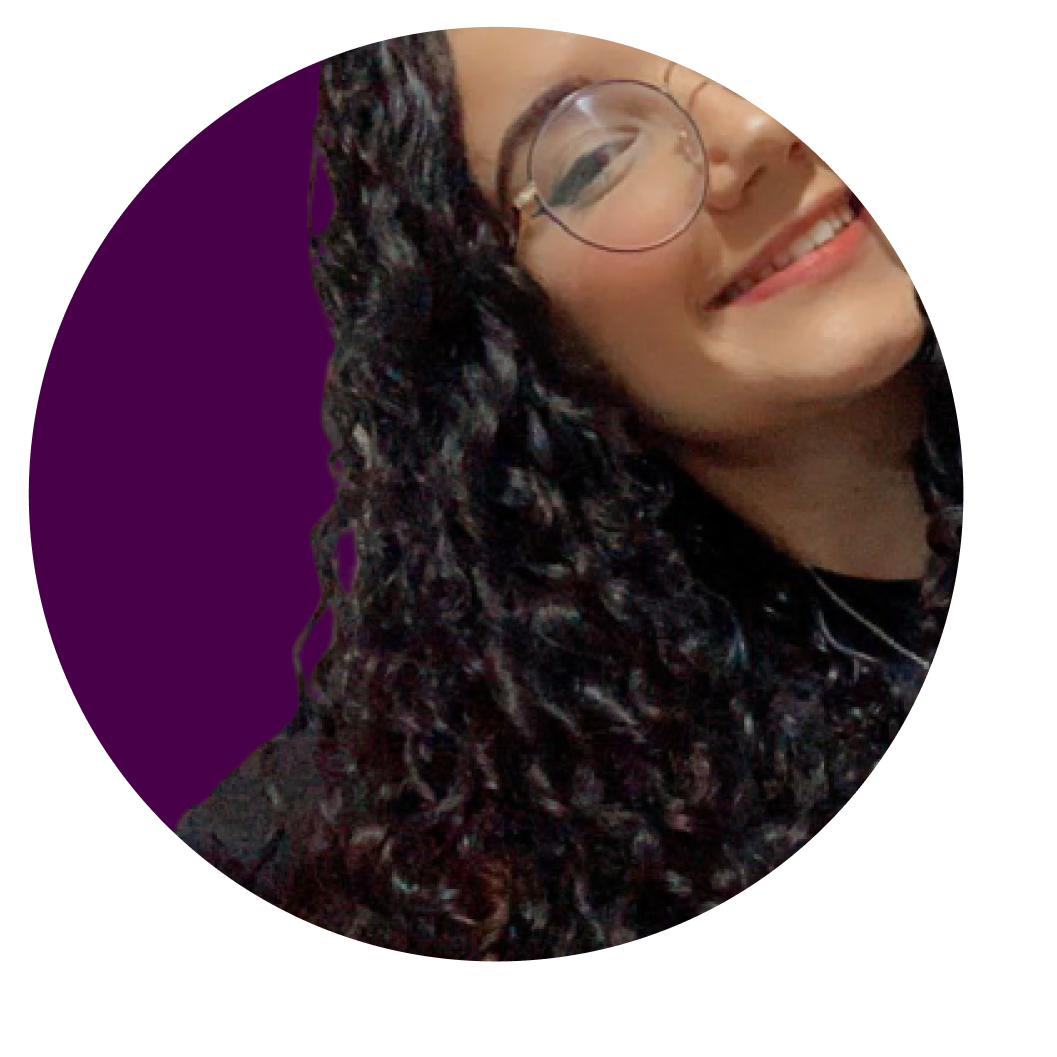
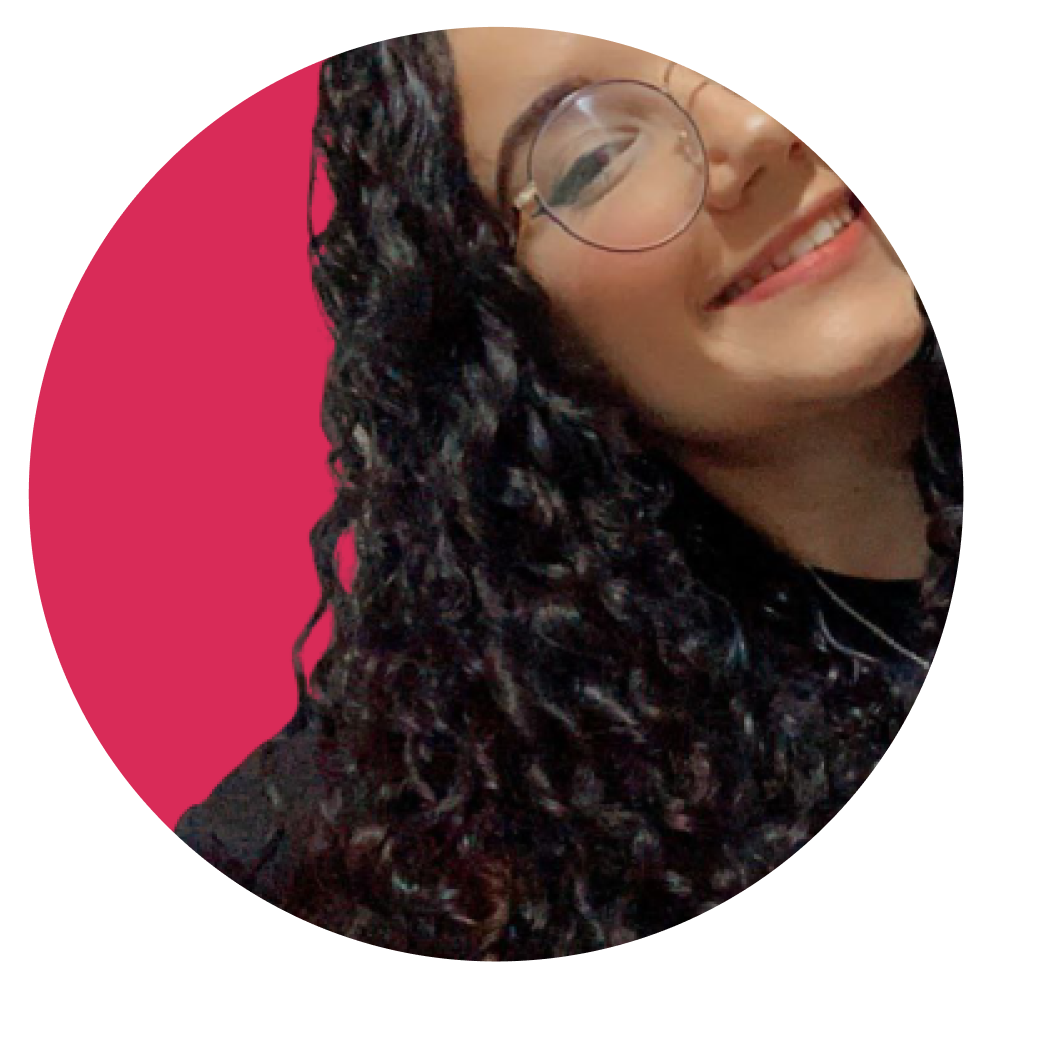
update colors

Changed region(s): [[0.0, 0.0624, 0.3434, 0.7805]]

diff --git a/src/components/LanguageSelect/index.js b/src/components/LanguageSelect/index.js
@@ -30,7 +30,7 @@ const LanguageSelect = () => {
     <div className="language-select">
       <Button onClick={({ currentTarget }) => setMenuAnchor(currentTarget)} style={{color: '#fff', fontFamily: 'Poppins', fontSize: '1em'}}>
         {languageMap[selected].label}
-        <ArrowDropDown fontSize="small" style={{color: '#A15A9E', fontSize: '1.7em'}} />
+        <ArrowDropDown fontSize="small" style={{color: '#FF7E99', fontSize: '1.7em'}} />
       </Button>
       <hr/>
       <Popover

diff --git a/src/App.css b/src/App.css
@@ -3,9 +3,9 @@
 @import url('https://fonts.googleapis.com/css2?family=Poppins:wght@100;300;400;500;600;700;800;900&display=swap');
 
 :root {
-  --color-brand-primary: #480048;
-  --color-brand-tertiary: #A15A9E;
-  --color-action-primary: #FAB950;
+  --color-brand-primary: #D92B58;
+  --color-brand-tertiary: #FF7E99;
+  --color-action-primary: #64B7CC;
   --color-neutral-lighest: #F2F2F2;
   --color-neutral-medium: #333333;
   --color-neutral-darkest: #0f0f0f;

diff --git a/src/components/Header/index.js b/src/components/Header/index.js
@@ -46,7 +46,7 @@ export default function Header(props) {
     <header id="home">
       <ParticlesBg
         num={40}
-        color="#480048"
+        color="#D92B58"
         config={config}
         type="cobweb"
         bg={true}

diff --git a/src/components/Header/style.css b/src/components/Header/style.css
@@ -32,7 +32,7 @@ header .row {
 }
 
 header .row img {
-    width: 40vw;
+    width: 35vw;
 }
 
 header .banner-text {
